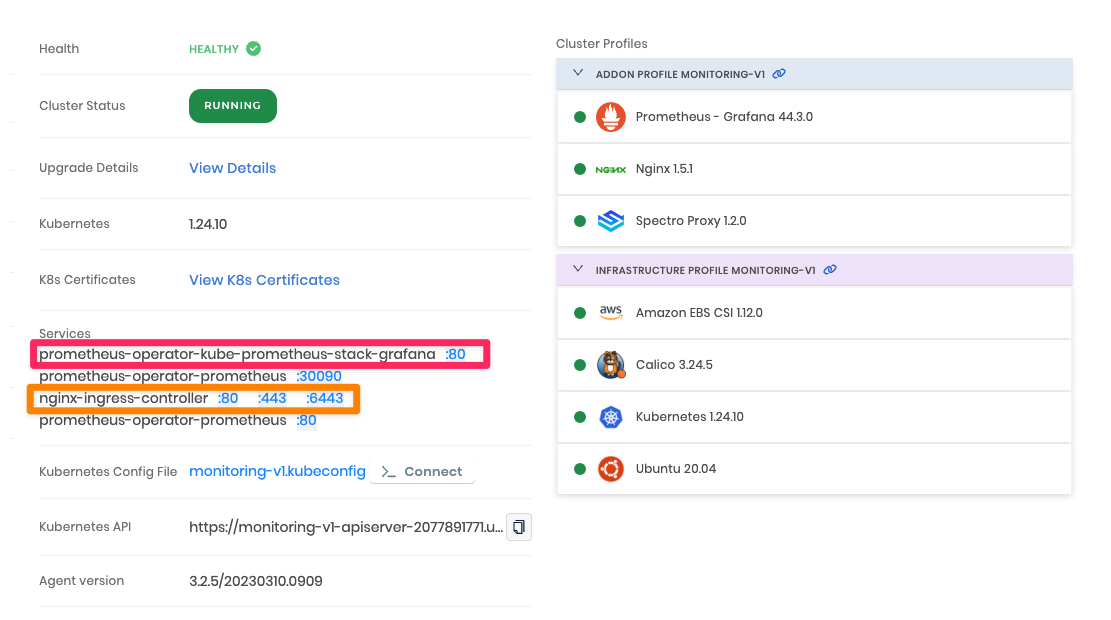
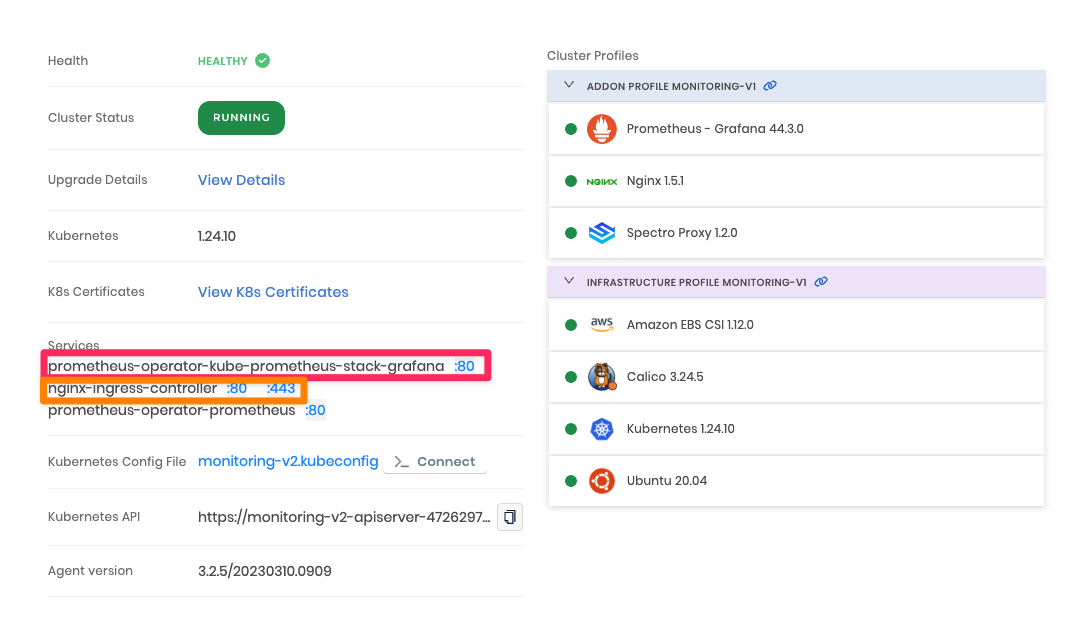
docs: updated instructions

diff --git a/content/docs/04-clusters/06-cluster-management/01.9-monitoring/10-deploy-monitor-stack.md b/content/docs/04-clusters/06-cluster-management/01.9-monitoring/10-deploy-monitor-stack.md
@@ -221,7 +221,7 @@ In this guide, the following domains are used to expose the monitoring stack:
 7. In the next screen that displays, select **Add New Pack**.
 
 
-8. Use the following information to add the NGINX ingress controller pack.
+8. Use the following information to add the Nginx ingress controller pack.
     - Pack Type: Ingress
     - Registry: Public Repo
     - Pack Name: Nginx
@@ -239,14 +239,6 @@ In this guide, the following domains are used to expose the monitoring stack:
         extraArgs: 
           enable-ssl-passthrough: true
   ```
-
-  ```yaml
-  charts:
-    ingress-nginx:
-      tcp:
-        6443: "nginx/nginx-ingress-controller:443"
-  ```
-
 
 10. Click on **Confirm & Create**.
 
@@ -279,7 +271,7 @@ In this guide, the following domains are used to expose the monitoring stack:
         adminPassword: "YourPassword"
   ```
 
-16. Next, update the `prometheus.service.type` parameter to `NodePort`.
+16. Next, update the `prometheus.service.type` parameter to `ClusterIP`.
 
   <br />
 
@@ -288,7 +280,7 @@ In this guide, the following domains are used to expose the monitoring stack:
       kube-prometheus-stack:
         prometheus:
           service:
-            type: NodePort
+            type: ClusterIP
   ```
 
 17. Confirm your changes by selecting **Confirm & Create**. You can enable several options to expand the functionality of the monitoring stack. Review the [Prometheus Operator](/integrations/prometheus-operator) pack documentation to learn more about the available options.
@@ -398,7 +390,7 @@ In this guide, the following domains are used to expose the monitoring stack:
   </WarningBox>
 
 
-35. Create a CNAME record for each of the following services and add the load balancer hostname to the CNAME's record value. Use the table below to identify what domain to map each load balancer hostname.
+35. Create a Canonical Name (CNAME) record for each of the following services and add the load balancer hostname to the CNAME's record value. Use the table below to identify what domain to map each load balancer hostname.
 
   | Service | Domain| CNAME Value Example |
   |---|---|---|
@@ -435,12 +427,12 @@ In this guide, the following domains are used to expose the monitoring stack:
   <br />
 
 
-38. Next, update the load balancer's listeners to forward requests from port 443 to the respective target port on the monitoring stack. The following table will map the service's load balancer listener with the respective configuration. Refer to the architecture diagram from the introduction to help you visualize the mapping.
+38. Next, update the load balancer listeners to forward requests from port 443 to the respective target port on the monitoring stack. The following table will map the service's load balancer listener with the respective configuration. Refer to the architecture diagram from the introduction to help you visualize the mapping.
 
-  | Inbound Loadbalancer Port | Domain |  Monitoring Stack Port | Service |
+  | Inbound Load Balancer Port | Domain |  Monitoring Stack Port | Service |
   |---|---|---|---|
   |443| `monitoring.example.com` | Use the same instance port the original entry for port 80 is using. | `prometheus-operator-kube-prometheus-stack-grafana` |
-  |443| `metrics.example.com`| 30090| `nginx-ingress-controller` |
+  |443| `metrics.example.com`| Use the same instance port the original entry for port 80 is using.| `nginx-ingress-controller` |
 
 
 39. Wait for the DNS changes to propagate. This could take between one to five minutes.
